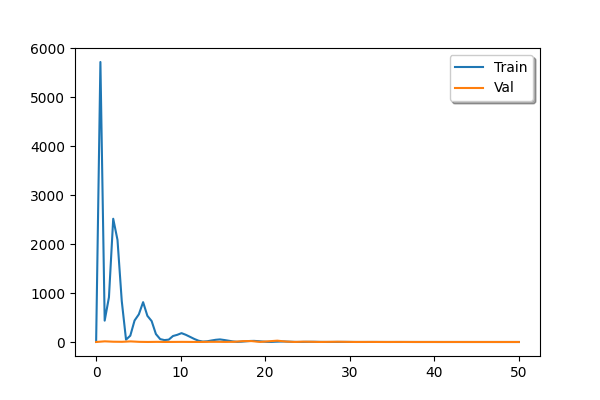
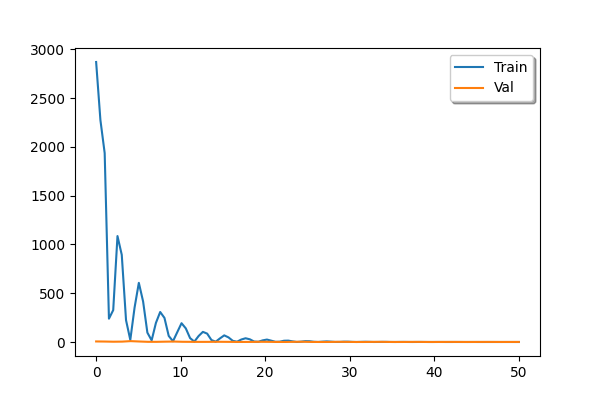
Transfer with error bounds

diff --git a/transfer.py b/transfer.py
@@ -319,48 +319,55 @@ def run(args):
 
         pretrain_val_loss_mean = np.mean(pretrain_val, axis=0)
         untrain_val_loss_mean = np.mean(untrain_val, axis=0)
-        pretrain_val_loss_dev = np.std(pretrain_val, axis=0)
-        untrain_val_loss_dev = np.std(untrain_val, axis=0)
 
-        fig, ax = plt.subplots(figsize=(6, 4))
+        pretrain_val_loss_max = np.max(pretrain_val, axis=0)
+        untrain_val_loss_max = np.max(untrain_val, axis=0)
+
+        pretrain_val_loss_min = np.min(pretrain_val, axis=0)
+        untrain_val_loss_min = np.min(untrain_val, axis=0)
+
+        fig, ax = plt.subplots(figsize=(8, 6))
 
 
         ax.fill_between(np.linspace(start = 0, stop = num_epochs, num=pretrain_val_loss_mean.shape[0]),
-                pretrain_val_losses + pretrain_val_loss_dev,
-                pretrain_val_losses - pretrain_val_loss_dev,
+                pretrain_val_loss_max,
+                pretrain_val_loss_min,
                 alpha = 0.5,
-                c = "green")
+                color = "green")
 
         ax.fill_between(np.linspace(start = 0, stop = num_epochs, num=untrain_val_loss_mean.shape[0]),
-                untrain_val_losses + untrain_val_loss_dev,
-                untrain_val_losses - untrain_val_loss_dev,
+                untrain_val_loss_max,
+                untrain_val_loss_min,
                 alpha = 0.5,
-                c = "blue")
+                color = "blue")
 
 
         ax.plot(np.linspace(start = 0, stop = num_epochs, num=pretrain_val_loss_mean.shape[0]),
                 pretrain_val_losses,
-                label=f"Pre-Trained (MuD), Best score: {pretrain_val_score}",
+                label=f"Pre-Trained (MuD), Best score: {pretrain_val_score} (w/ max, min)",
                 c = "green")
 
         ax.plot(np.linspace(start = 0, stop = num_epochs, num=untrain_val_loss_mean.shape[0]),
                 untrain_val_losses,
-                label=f"From Scratch, Best score: {untrain_val_score}",
+                label=f"From Scratch, Best score: {untrain_val_score} (w/ max, min)",
                 c = "blue")
 
 
         # ax.axhline(pretrain_best_val_loss, c = "green", linestyle="dashed")
         # ax.axhline(untrain_best_val_loss,  c = "blue", linestyle="dashed")
 
-        ax.legend(shadow=True)
+        ax.legend(loc = "upper right", shadow=True)
         ax.set_xlabel("Epoch")
         ax.set_ylabel("Validation Loss")
+        ax.set_title(name)
 
         # if max(pretrain_val_losses + untrain_val_losses) > 2000:
         ax.set_yscale('log')
 
+        plt.tight_layout()
+
         features_string_tag = "feats" if evaluation_node_features else "no-feats"
-        plt.savefig(f"outputs/{name}/{model_name}-{features_string_tag}.png")
+        plt.savefig(f"outputs/{name}/{name}-{model_name}-{features_string_tag}.png")
         plt.close()
 
 
